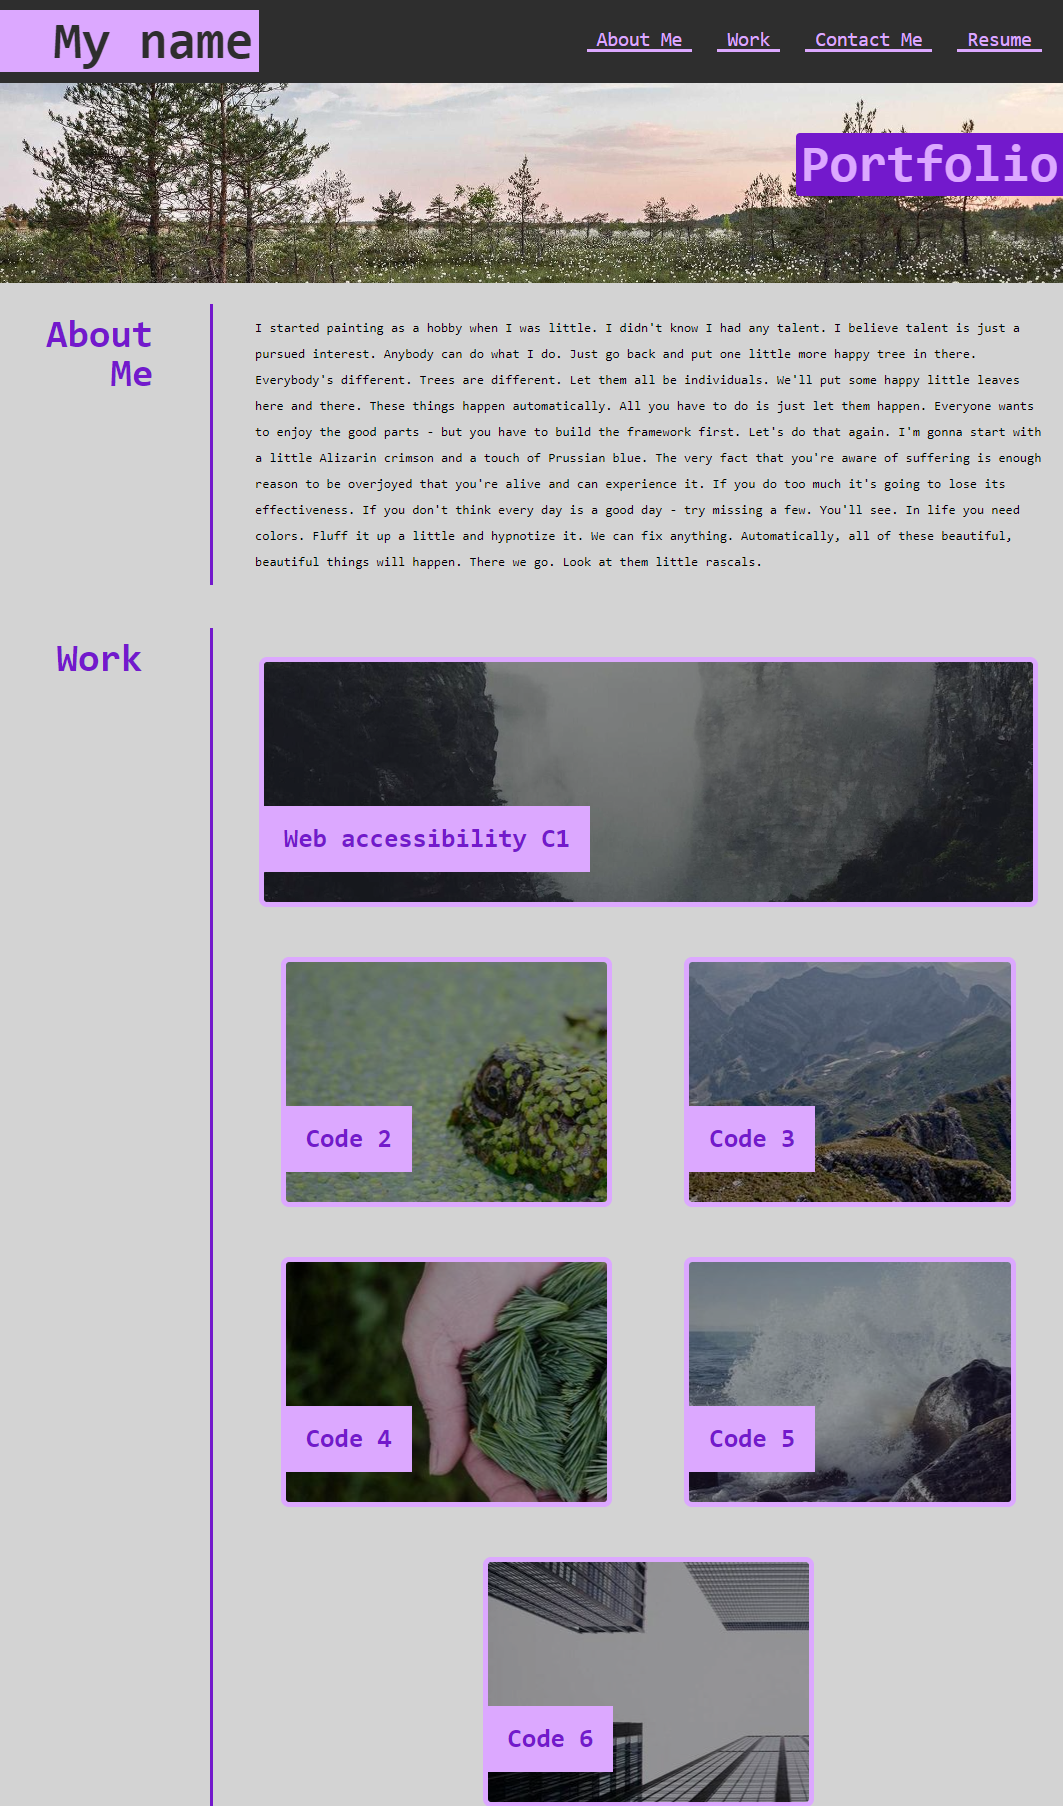
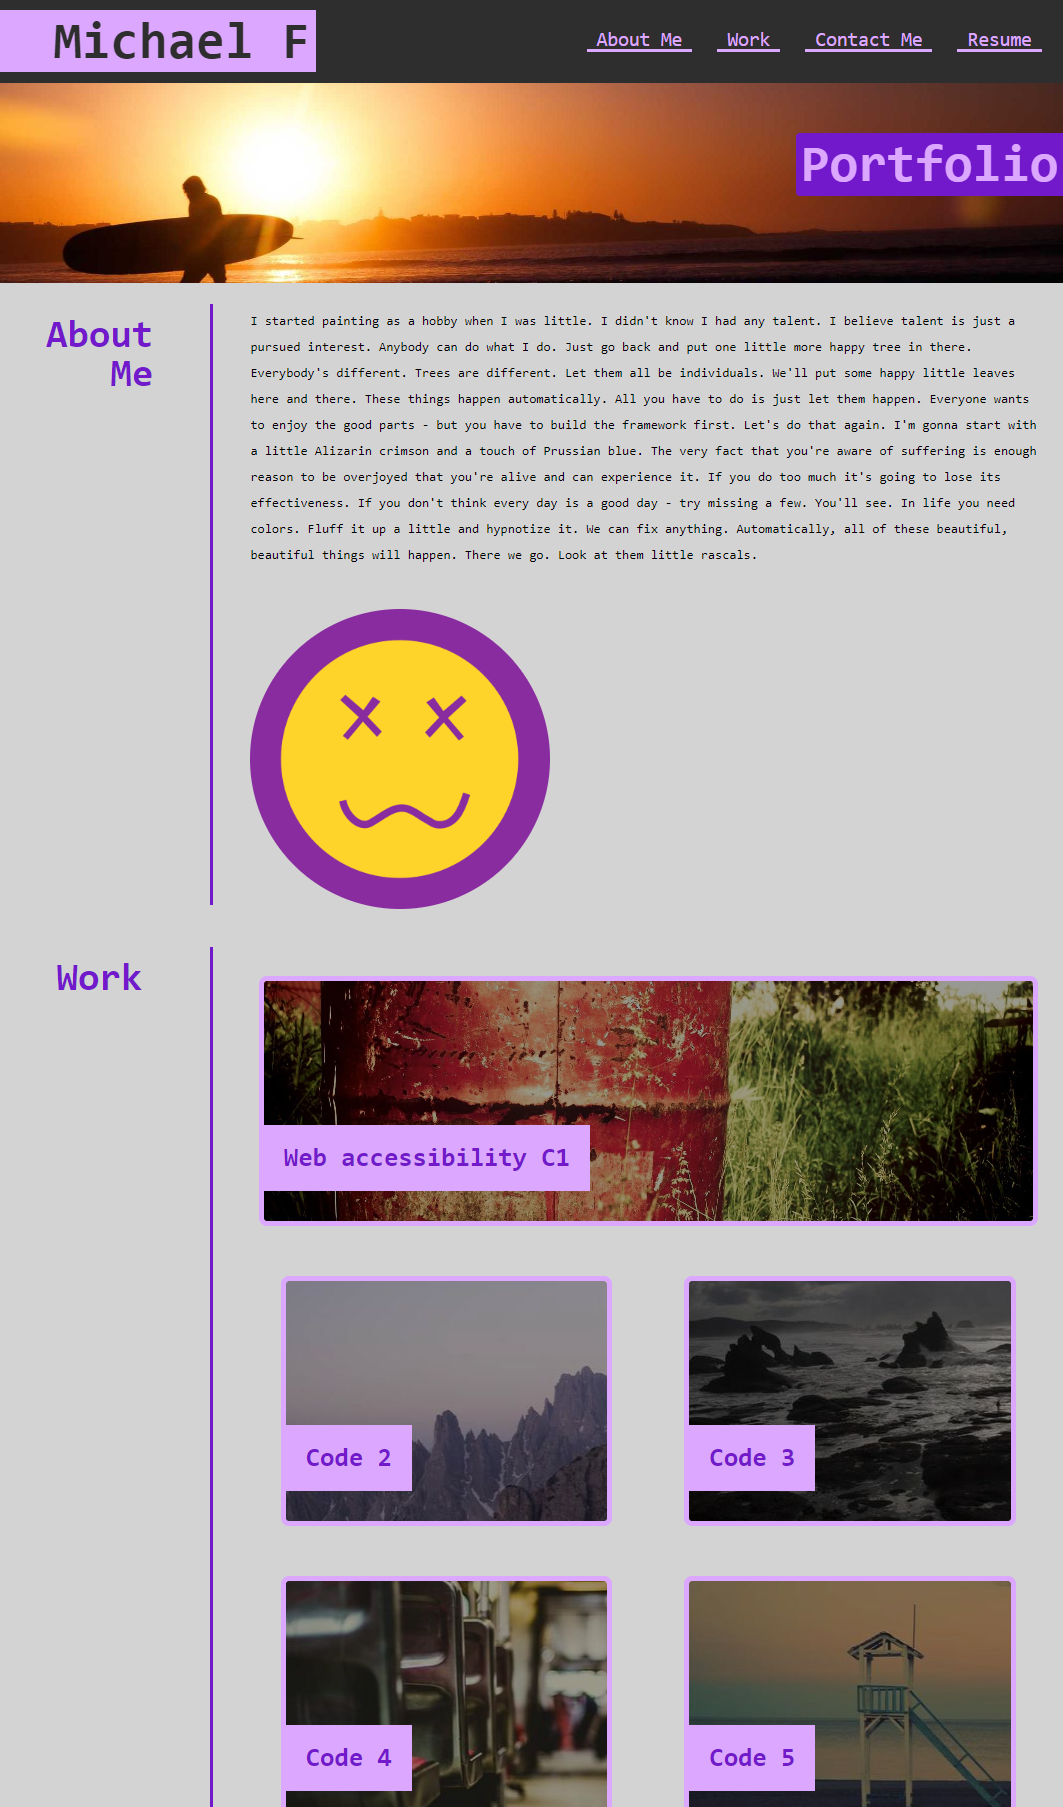
updated readme

diff --git a/index.html b/index.html
@@ -11,7 +11,7 @@
 <body>
   <!-- Header -->
   <header>
-    <h1>My name</h1>
+    <h1>Michael F</h1>
     <nav> <!-- Nav Bar -->
       <ul>
         <li><a href="#about-me">About Me</a></li>
@@ -31,19 +31,22 @@
     <aside><!-- About me aside -->
       <h3>About Me</h3>
     </aside>
-    <p><!-- About me body -->
-    I started painting as a hobby when I was little. I didn't know I had any talent. I believe talent is just a pursued interest. Anybody can do what I do. Just go back and put one little more happy tree in there. Everybody's different. Trees are different. Let them all be individuals. We'll put some happy little leaves here and there. These things happen automatically. All you have to do is just let them happen. Everyone wants to enjoy the good parts - but you have to build the framework first. Let's do that again. I'm gonna start with a little Alizarin crimson and a touch of Prussian blue. The very fact that you're aware of suffering is enough reason to be overjoyed that you're alive and can experience it. If you do too much it's going to lose its effectiveness. If you don't think every day is a good day - try missing a few. You'll see. In life you need colors. Fluff it up a little and hypnotize it.  We can fix anything. Automatically, all of these beautiful, beautiful things will happen. There we go. Look at them little rascals.
-    </p>
+    <section class='about-me'>
+      <p><!-- About me body -->
+      I started painting as a hobby when I was little. I didn't know I had any talent. I believe talent is just a pursued interest. Anybody can do what I do. Just go back and put one little more happy tree in there. Everybody's different. Trees are different. Let them all be individuals. We'll put some happy little leaves here and there. These things happen automatically. All you have to do is just let them happen. Everyone wants to enjoy the good parts - but you have to build the framework first. Let's do that again. I'm gonna start with a little Alizarin crimson and a touch of Prussian blue. The very fact that you're aware of suffering is enough reason to be overjoyed that you're alive and can experience it. If you do too much it's going to lose its effectiveness. If you don't think every day is a good day - try missing a few. You'll see. In life you need colors. Fluff it up a little and hypnotize it.  We can fix anything. Automatically, all of these beautiful, beautiful things will happen. There we go. Look at them little rascals.
+      </p>
+      <img src="./assets/images/avatar-placeholder.png" alt="placeholder avatar">
+    </section>
   </article>
   <!-- Work container -->
-  <article id='work' class='container'>
+  <section id='work' class='container'>
     <aside class='aside-body'><!-- Body aside -->
       <h4>Work</h4>
     </aside>
     <main class='body'><!-- Work body -->
       <article>
         <ul><!-- My cards are in a ul as a tags -->
-          <a href="https://github.com/XMoonphaseX/Web-accessibility-C1" target='_blank' class='card'><li><h3 class='header-card'>Web accessibility C1</h3></li></a>
+          <a href="https://xmoonphasex.github.io/Web-accessibility-C1/" target='_blank' class='card'><li><h3 class='header-card'>Web accessibility C1</h3></li></a>
           <a href="" target='_blank' class='card'><li><h3 class='header-card'>Code 2</h3></li></a>
           <a href="" target='_blank' class='card'><li><h3 class='header-card'>Code 3</h3></li></a>
           <a href="" target='_blank' class='card'><li><h3 class='header-card'>Code 4</h3></li></a>
@@ -52,7 +55,7 @@
         </ul>
       </article>
     </main>
-  </article>
+  </section>
   <!-- Footer container -->
   <footer id='contact-me' class='container'>
     <aside class='aside-foot'><!-- Footer aside -->

diff --git a/assets/css/style.css b/assets/css/style.css
@@ -117,6 +117,19 @@ article p {
   line-height: 2;
 }
 
+.about-me {
+  display: flex;
+  flex-direction: row
+}
+
+.about-me img {
+  margin: 2%;
+  height: 300px;
+  max-width: 300px;
+  min-width: 300px;
+  border-radius: 150px;
+}
+
 /* Work container set to flex-start(left) */
 #work {
   display: flex;
@@ -262,6 +275,10 @@ footer li {
   aside h5  {
     font-size: 300%;
   }
+  
+  .about-me {
+    flex-direction: column;
+  }
 }
 
 /* If max screen width < 800px */
@@ -279,6 +296,10 @@ footer li {
   /* Fixes title padding */
   h1 {
     padding: 2%;
+  }
+
+  .about-me {
+    align-items: center;
   }
 
   /* Changes aside border to bottom */
